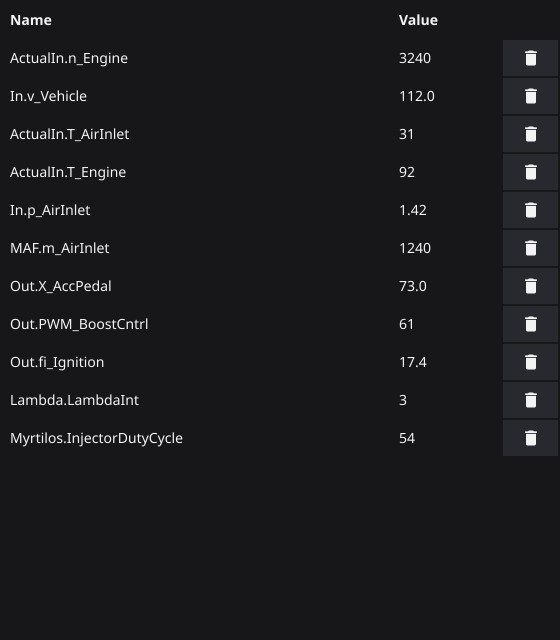
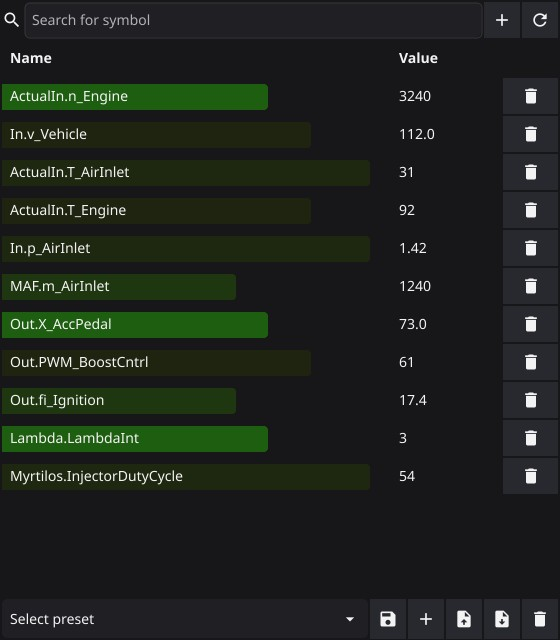
symbollist docs

diff --git a/content/docs/symbol-list.md b/content/docs/symbol-list.md
@@ -1,0 +1,63 @@
+---
+title: Symbol List
+weight: 30
+---
+
+![Symbol list](/screenshots/symbollist.jpg)
+
+The symbol list is where you pick what txlogger reads from the ECU. Everything in
+this list is polled while logging, plotted in the live plot, and written to the log
+file — nothing else is. Open it with the **Symbol list** button in the toolbar.
+
+Symbols come from the binary you have loaded — File → Open → Open binary, or drag a
+`.bin` onto the window. Without a binary you can still load presets, but you can not
+look up new symbols.
+
+## Adding and removing symbols
+
+Type at least three characters in the search field at the top and a list of matching
+symbols from the binary drops down. Pick one, then press the **+** button to add it.
+Only symbols of 8 bytes or less show up — bigger ones are maps and tables, which
+belong in the map viewer, not the logger.
+
+The **↻** button next to it re-reads every listed symbol from the currently loaded
+binary and updates its address, length, type and correction factor. Use it after
+loading a different binary: a preset saved against one ECU tune carries stale
+addresses, and syncing fixes them without you having to rebuild the list. The debug
+log reports how many symbols were matched, so `Synced 12 / 18 symbols` means six
+names do not exist in the binary you have open.
+
+The trash button on each row removes that symbol from the list.
+
+## Live values
+
+While logging, each row shows the symbol's current value. The coloured bar behind the
+name shows where that value sits between the lowest and highest reading seen so far:
+green and short near the bottom of the range, red and full width at the top, rescaling
+whenever a new extreme arrives. It is a quick way to see which channels are moving and
+which are pinned.
+
+Turn the bars off under Settings → *Value bars in symbol list* if they cost you too much
+on a slow machine; the numbers keep updating, and the bars appear or disappear straight
+away without reopening the window. The bar colours follow the colourblind mode you pick
+in Settings, same as the map viewer.
+
+## Presets
+
+The row along the bottom saves and restores whole symbol lists. txlogger ships with
+**T5 Dash**, **T7 Dash**, **T7 Dash+Boost** and **T8 Dash**, which cover the channels
+the dashboard needs for each ECU. The last preset you used is remembered per ECU and
+re-selected when you switch between T5, T7 and T8.
+
+From left to right, the buttons are:
+
+- **Save** — overwrite the selected preset with the current list. With no preset
+  selected it asks for a name instead.
+- **New** — save the current list under a new name.
+- **Export** — write the current list to a `.txp` file to share or back up.
+- **Import** — load a `.txp` file into the list.
+- **Delete** — remove the selected preset. The four built-in presets can not be
+  deleted.
+
+Your own presets are stored in txlogger's settings, not as files, so they survive an
+upgrade. Use export if you want to move them to another machine.
